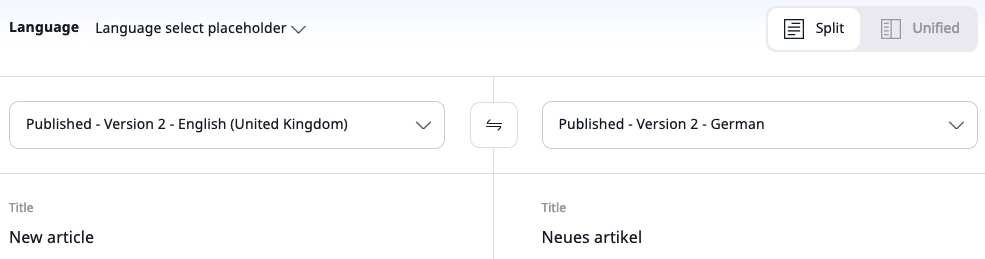
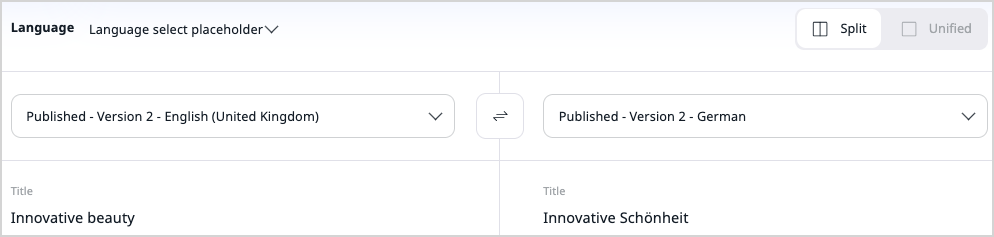
Release 5.0.10 (#428)
* branch release_5.0.10

---------

diff --git a/docs/content_management/translate_content.md b/docs/content_management/translate_content.md
@@ -1,5 +1,5 @@
 ---
-description: Create multiple language versions of content items.
+description: Create multiple language versions of content items and products.
 ---
 
 # Translate content
@@ -7,6 +7,11 @@ description: Create multiple language versions of content items.
 The content on your website can be translated into different languages.
 Each content item can have different language versions.
 The version visible to a visitor depends on the way your installation is set up (see [SiteAccess concept](#edit-page-for-different-language-versions-of-a-website)).
+
+!!! tip "Translations management LTS Update"
+
+    If the [Translations management](#translations-management) LTS Update is installed in your system, [[= product_name =]] offers a side-by-side translation view that displays the source and target languages simultaneously.
+    It makes it easier for you to provide, edit, and review translations.
 
 ## Add website languages
 
@@ -17,11 +22,16 @@ To do it, go to the **Admin** panel, open the **Languages** tab, and click **Add
 Every new language must have a name and a language code written in the xxx-XX format, for example, eng-US, fre-FR, or nor-NO.
 After adding a language, you may have to reload the application to be able to use it.
 
-!!! caution
+!!! note "Website configuration"
 
     Depending on the way the website is set up, additional configuration may be necessary for the new translations to be displayed properly.
     Contact your administrator and inform them that you need to add a new language to the website.
-    For more information, see [Developer Documentation on language versions]([[= developer_doc =]]/multisite/languages/languages/)).
+
+    For example, you can only preview content items translated to languages that have a corresponding website configured in that language.
+
+    ![Preview limitation](img/translation_preview_impossible.png "Preview limitation")
+
+    For more information, see [Developer Documentation on language versions]([[= developer_doc =]]/multisite/languages/languages/).
 
 ## Add translations
 
@@ -44,7 +54,22 @@ the same way as when editing only one language.
 
 <!--ARCADE EMBED START--><div style="position: relative; padding-bottom: calc(51.27314814814815% + 41px); height: 0; width: 100%;"><iframe src="https://demo.arcade.software/wrOL621W0E3uAwSOBBmZ?embed&embed_mobile=tab&embed_desktop=inline&show_copy_link=true" title="Add translation" frameborder="0" loading="lazy" webkitallowfullscreen mozallowfullscreen allowfullscreen allow="clipboard-write" style="position: absolute; top: 0; left: 0; width: 100%; height: 100%; color-scheme: light;" ></iframe></div><!--ARCADE EMBED END-->
 
-### Automated translation
+## Edit page for different language versions of a website [[% include 'snippets/experience_badge.md' %]] [[% include 'snippets/commerce_badge.md' %]]
+
+When you edit a page, a bar at the top of the screen lists the most recently used [SiteAccesses](multisite.md#siteaccess) on your website.
+Use this bar to switch between the different versions and work on them.
+
+<a name="siteaccess"></a>
+
+!!! note "SiteAccess concept"
+
+    SiteAccesses are a means to present different versions of the website to different categories of users.
+    You could treat SiteAccesses as different "entrance points" to your website.
+    They allow you to show different content or design to visitors, for example, to serve different language versions to visitors from different countries.
+
+    See [Work with websites](../website_organization/work_with_sites.md) for more information about setting up websites.
+
+## Automated translation
 
 If your application comes with a [properly configured automated translation feature]([[= developer_doc =]]/multisite/languages/automated_translations), you can have your content machine-translated into multiple languages by using external translation services like Google Translate and DeepL.
 
@@ -76,17 +101,233 @@ The screen refreshes to display the side by side view of its fields.
 
 For more information, see [Work with versions](work_with_versions.md#compare-versions).
 
-## Edit page for different language versions of a website [[% include 'snippets/experience_badge.md' %]]
+## Translations management [[% include 'snippets/lts-update_badge.md' %]]
 
-When you edit a page, a bar at the top of the screen lists the most recently used [SiteAccesses](multisite.md#siteaccess) on your website.
-Use this bar to switch between the different versions and work on them.
+If the translations management feature [is installed and properly configured]([[= developer_doc =]]/multisite/languages/translations_management) in your system, the set of features available for [content item](content_items.md) and [product](products.md) translation changes:
 
-<a name="siteaccess"></a>
+- Application administrators can [define language pairs and assign translation services](#manage-translation-services-and-language-pairs) to them.
+- Content editors get a redesigned translation interface called [side-by-side translation view](#side-by-side-translation-view). If at least one automated translation provider is configured, editors can use it to machine-translate content.
 
-!!! note "SiteAccess concept"
+!!! note "Limitations"
 
-    SiteAccesses are a means to present different versions of the website to different categories of users.
-    You could treat SiteAccesses as different "entrance points" to your website.
-    They allow you to show different content or design to visitors, for example, to serve different language versions to visitors from different countries.
+    [Pages](create_edit_pages.md) and [Forms](work_with_forms.md) don't support the side-by-side translation view and open in the single-language editor instead.
 
-    See [Work with websites](../website_organization/work_with_sites.md) for more information about setting up websites.
+    When you translate them automatically:
+
+    - Translatable page content, including text and RichText block attributes, is sent for translation, while layout, zones, and non-translatable block attributes are preserved from the source page.
+    - The form that you build with the Form Builder is not translated.
+
+    Also, [product attributes](work_with_product_attributes.md) remain non-translatable and are inactive in the side-by-side translation view.
+
+### Manage translation services and language pairs
+
+If you have Administrator permissions, you can enable and disable translation services and assign them to language pairs.
+Enabling at least one translation service is required before the editors can use automatic translation.
+
+#### Translation services
+
+To see the translation services that are available in your system, go to **Admin** -> **Languages** -> **Translation services** tab.
+
+The tab lists all translation services that have been [configured by the developer]([[= developer_doc =]]/multisite/translations_management/configure_translations_management/#configure-translation-providers).
+Each service shows its name, vendor, and whether it's enabled.
+Disabled services don't appear as choices in the **Create a new translation** modal.
+
+!!! note "Permission to use AI actions"
+
+    AI-based translation services require that policies related to [AI actions](work_with_ai_actions.md) are assigned to user roles.
+    If an editor can't see AI-based services in the drop-down on the **Create a new translation** modal, check if the right permissions are granted in their role definition.
+
+#### Language pairs
+
+To manage language pairs, go to **Admin** -> **Languages** -> **Language pairs** tab.
+
+A language pair setting decides which translation service is used by default when an editor translates from one specific language to another.
+When an editor opens the **Create a new translation** modal and selects a source and target language, a matching translation service gets pre-selected.The editor can override this selection.
+
+To add a language pair, click **+ Add language pair**, and then:
+
+1. Select a source language.
+2. Select one or more target languages.
+3. Select a translation service.
+4. Click **Save and close**.
+
+![Creating a language pair](img/translations_management_language_pairs.png "Creating a language pair")
+
+This creates one language pair per selected target language.
+
+!!! note "Existing language pairs"
+
+    If a language pair for a given source-to-target combination already exists, even for a disabled translation service, you cannot create another one with a different service.
+    Edit the existing language pair instead.
+    To do it, you may need to temporarily re-enable the disabled services, so that all language pairs appear on the screen.
+
+### Side-by-side translation view
+
+The side-by-side translation view displays the source and target text of the content item or product on one screen.
+This way you can add, modify or review translations in context without having to switch between tabs or windows.
+
+The back office offers several entry points where you can access the side-by-side translation view, for example:
+
+- Content item's **Translations** tab — go to **Content** -> **Content structure**, select a content item, open the **Translations** tab, and click **+ Add**.
+- Product's **Translations** tab — go to **Product catalog** -> **Products**, select a product, open the **Translations** tab, and click **+ Add**.
+- **Content tree** — click the three dots icon next to a content item in the content tree and, in the context menu, click **Add translation**.
+- **Content edit view** — when you choose to edit a content item and several language versions exist, the **Edit side-by-side** button is active for all languages except for the main language of the content item.
+
+#### Source and target columns
+
+Depending on [user settings](get_started.md#user-settings), the source language column appears on the left or right of the side-by-side view.
+By default, the source is on the left.
+
+Translatable non-textual fields remain active in the translation column.
+This way you can, for example, replace images with their localized counterparts.
+
+![Side-by-side translation view](img/managing_translations_sxs_view.png "Side-by-side translation view")
+
+Like in the standard content item editor, when multiple sections or field groups exist within the content item or product, anchors appear at the top of the side-by-side translation view to help you jump directly to a specific section.
+
+The view also supports the [distraction-free mode](create_edit_content_items.md#distraction-free-mode), where longer texts in both columns can be scrolled in a synchronized way.
+
+![Distraction-free mode](img/translations_distraction_free_mode.png "Distraction-free mode")
+
+#### Change source language
+
+When a content item or product has multiple published language versions, a drop-down list appears at the top of the source column.
+You can use the drop-down list to change the language that is displayed in the source column.
+
+![Source language selection](img/translations_select_source.png "Source language selection")
+
+#### Copy content from source
+
+The divider between the source and target columns contains a **Copy all from source** button.
+Click it to copy all translatable field values from the source column into the target fields in a single action.
+Values of all fields are copied at the same time.
+
+![Copy all from source button](img/translations_copy_source.png "Copy all from source button")
+
+!!! caution
+
+    When you copy content from source after a target column has been translated, it overwrites all existing translations.
+    This action can't be reverted.
+
+The button is absent if you switch to the [distraction-free mode](create_edit_content_items.md#distraction-free-mode).
+
+#### Hide the source
+
+When the source is placed on the right, the divider between the source and target columns contains a **Collapse source language** button.
+The button toggles the source panel visibility, allowing editors to hide the source text when they no longer need it.
+
+![Collapse source button](img/translations_collapse_source.png "Collapse source button")
+
+### Add new translation
+
+1\. Either click **+ Add** in the content item's or product's **Translations** tab, or **Add translation** in the content tree.
+
+![Starting the translation from the content tree](img/translate_from_content_tree.png "Starting the translation from the content tree")
+
+2\. In the **Create a new translation** modal, select the source and target languages.
+
+!!! note "Draft conflict"
+
+    If a draft translation of the content item already exists for the selected target language, a warning appears in the modal to inform you about this fact.
+    You can proceed and add a new draft, or discard the modal and edit the existing draft translation.
+
+    For more information, see [Edit existing translations](#edit-existing-translations).
+
+3\. If **Use automatic translation** is checked, select a translation provider from a drop-down list.
+
+You may prefer to translate the content by yourself.
+To do it, uncheck **Use automatic translation** and proceed.
+
+![Create a new translation modal](img/translations_create_translation.png "Create a new translation modal")
+
+If no translation providers are configured in the system, or [the providers are disabled](#manage-translation-services-and-language-pairs), the checkbox is inactive.
+If only one provider exists in the system, there is a checkbox, but no drop-down list.
+When there are more than four translation services configured in the system, a search field appears in the drop-down list.
+
+4\. Click **Open side-by-side**.
+
+The [side-by-side translation view](#side-by-side-translation-view) opens with the source text in one column and the target form in the other.
+Depending on whether you choose to use automatic translations, target fields can be empty or pre-translated.
+
+!!! note "Reviewing automatic translations"
+
+    If you choose to use automatic translations, the side-by-side view allows you to approve or reject the translation.
+    For more information, see [Review automatic translation](#review-automatic-translation).
+
+5\. When you work with a product, **Save and close** publishes the translation and **Discard** removes it completely.
+
+6\. When you work with other content items, you have multiple options to quit editing and preserve the translation, while **Delete draft** removes it completely.
+
+### Edit existing translations
+
+The back office offers several entry points where you can edit existing content item or product translations.
+
+To edit a published translation of a content item:
+
+1. In the content tree, select a content item and click **Edit**.
+2. If the content item has multiple language versions, the **Select translation modal** displays all published translations.
+3. Select a language and click **Edit side-by-side**.
+
+To edit a translation of a product:
+
+1. Go to **Product catalog** -> **Products**.
+2. Select a product and open the **Translations** tab.
+3. Next to the language version you want to edit, click the **Edit side-by-side** button.
+
+This opens the side-by-side translation view, where you can perform a review or make your changes and either create a new draft of a content item or publish directly.
+
+!!! tip
+
+    The **Edit side-by-side** button is active only for languages other than the main language of the content item or product.
+
+To edit a draft translation of a content item:
+
+- In the content tree, select a content item and open the **Versions** tab. Click the three dots icon next to a draft translation that you want to edit and, in the context menu, click **Edit side-by-side**.
+- In the main menu, go to **Content** or visit the **My dashboard** page, and go to **Drafts**. Find a draft whose source and target languages differ and click **Edit side-by-side**.
+
+This opens the existing draft in the side-by-side translation view, so you can review and refine a translation without creating a new draft.
+
+!!! tip
+
+    Products don't have draft translations.
+    Product translations are published instantly when you click **Save and close** in the editing window.
+
+### Review automatic translation
+
+If a content item or product has draft translations created with automatic translation, the **Versions** tab displays a **Translation status** column.
+Such drafts are marked with one of the following badges:
+
+- **For review** — you can review and approve the translation.
+- **Translated** — the translation has been accepted.
+
+Draft translations that you translated yourself rather than automatically don't have a badge.
+
+![Review status badges in the Versions tab](img/translations_review_status.png "Review status badges in the Versions tab")
+
+When you create and open an automatic translation or open a draft translation of a content item that has "For review" status in the side-by-side view, a review banner appears at the bottom of the screen, which allows you to accept or reject the translation.
+
+![Review banner in the side-by-side view](img/translations_review_banner.png "Review banner in the side-by-side view")
+
+#### Reject translation
+
+On the review banner, click **Reject** to mark the translation as requiring further work.
+The review banner hides but it reappears the next time you open the translation.
+The **For review** status in the **Versions** tab remains unchanged.
+
+You can reject a translation multiple times, but you can't reject a translation that has been accepted.
+
+!!! tip
+
+    For content items, rejecting a translation doesn't prevent them from being published.
+    The translation can be published regardless of its review status.
+
+    For products, rejecting a translation and then saving and closing the editing window publishes the translation despite its review status.
+
+#### Accept translation
+
+On the review banner, click **Accept** to mark the translation as reviewed and approved.
+The review banner disappears permanently and the status changes from **For review** to **Translated**.
+
+Accepting a translation of a content item does not mean that it's published.
+You still need to save and publish the draft.
+You can also close the draft without publishing.

diff --git a/docs/getting_started/get_started.md b/docs/getting_started/get_started.md
@@ -124,6 +124,8 @@ Here you can [change your user password](get_started.md#change-the-password) and
 |Help center|Enables or disables the [help center](discover_ui.md#help-center). [[% include 'snippets/lts-update_badge.md' %]]|
 |Product tour|Enables or disables the [product tour onboarding](#onboarding) walkthroughs. [[% include 'snippets/lts-update_badge.md' %]]|
 |Product tour scenarios settings|Separate setting for each available product tour scenario. Allows you to mark each scenario as completed or reset its progress. [[% include 'snippets/lts-update_badge.md' %]]|
+|Side-by-side layout|Decides on which side of the screen the target language column should be displayed in the [side-by-side translation view](translate_content.md#side-by-side-translation-view). [[% include 'snippets/lts-update_badge.md' %]]|
+|Automatic translation for new items|Controls the behavior of the [**Create a new translation** modal](translate_content.md#add-new-translation). When activated, the **Use automatic translation** checkbox is selected and the default translation service for the language pair is preselected. Inactive when no automated translation services are defined. [[% include 'snippets/lts-update_badge.md' %]]|
 
 #### Mode
 

diff --git a/docs/index.md b/docs/index.md
@@ -103,11 +103,11 @@
         <div class="col-12 col-lg-6">
             <div class="notification notification--lts-update" id="tile3">
                 <div class="notification__content">
-                    <h2>The newest LTS Update is MCP Servers</h2>
-                    <div>Set up MCP servers to help AI agents interact with Cohesivo.</div>
+                    <h2>The newest LTS Update is Translations management</h2>
+                    <div>Use machine translation, side-by-side editing view, and a review cycle to improve your translation experience.</div>
                 </div>
                 <div class="notification__cta">
-                    <a href="https://doc.ibexa.co/en/5.0/ai/mcp/mcp_guide/">Learn more about this LTS Update</a>
+                    <a href="https://doc.ibexa.co/en/5.0/multisite/translations_management/translations_management/">Learn more about this LTS Update</a>
                     <a href="https://doc.ibexa.co/en/5.0/ibexa_products/editions/#lts-updates">Discover other LTS Updates</a>
                 </div>
                 <div class="notification__image">

diff --git a/docs/getting_started/notifications.md b/docs/getting_started/notifications.md
@@ -29,7 +29,7 @@ If you have already received notifications and didn't act on then, a number of n
 Click the notification icon to view a short list with the most recent notifications, arranged from newest to oldest.
 Here, you can click certain notifications in the short list to act on them, according to their originator's request.
 
-You can click the three dots icon on the right side of each individual notification and mark it as read or delete it.
+You can click the three dots icon next to each individual notification and mark it as read or delete it.
 You can also click **Mark all as read** to mark all notifications as read.
 
 ![Short list of notifications](notifications_short_list.png "Short list of notifications")

diff --git a/docs/content_management/create_edit_content_items.md b/docs/content_management/create_edit_content_items.md
@@ -135,7 +135,7 @@ Invited users can either edit the Rich Text fields or only preview the content (
 You can edit embedded content items without leaving current window.
 
 To do it, first insert selected content item in the Rich Text field.
-Then, click the three dots icon on the right side and click **Edit**.
+Then, click the three dots icon and click **Edit**.
 
 ![Edit embedded content item](img/edit_embedded_item_richtext.png "Edit embedded content item")
 

diff --git a/docs/getting_started/dashboard/work_with_dashboard.md b/docs/getting_started/dashboard/work_with_dashboard.md
@@ -141,7 +141,7 @@ The following actions are available:
 ## Edit dashboard
 
 At any time you can edit an active customized dashboard.
-To do it, click the three dots icon in the top right corner, and then click **Edit...**.
+To do it, click the three dots icon in the top corner, and then click **Edit...**.
 
 ![Edit dashboard](edit_active_dashboard.png "Edit dashboard")
 

diff --git a/docs/product_catalog/products.md b/docs/product_catalog/products.md
@@ -47,7 +47,7 @@ It lists all tasks required for product configuration, including:
 - variants (if any of the attributes is enabled for variants)
 - availability
 - prices in different currencies
-- translations
+- [translations](translate_content.md)
 
 ![Product completeness screen](img/product_completeness.png "Product completeness screen")
 
